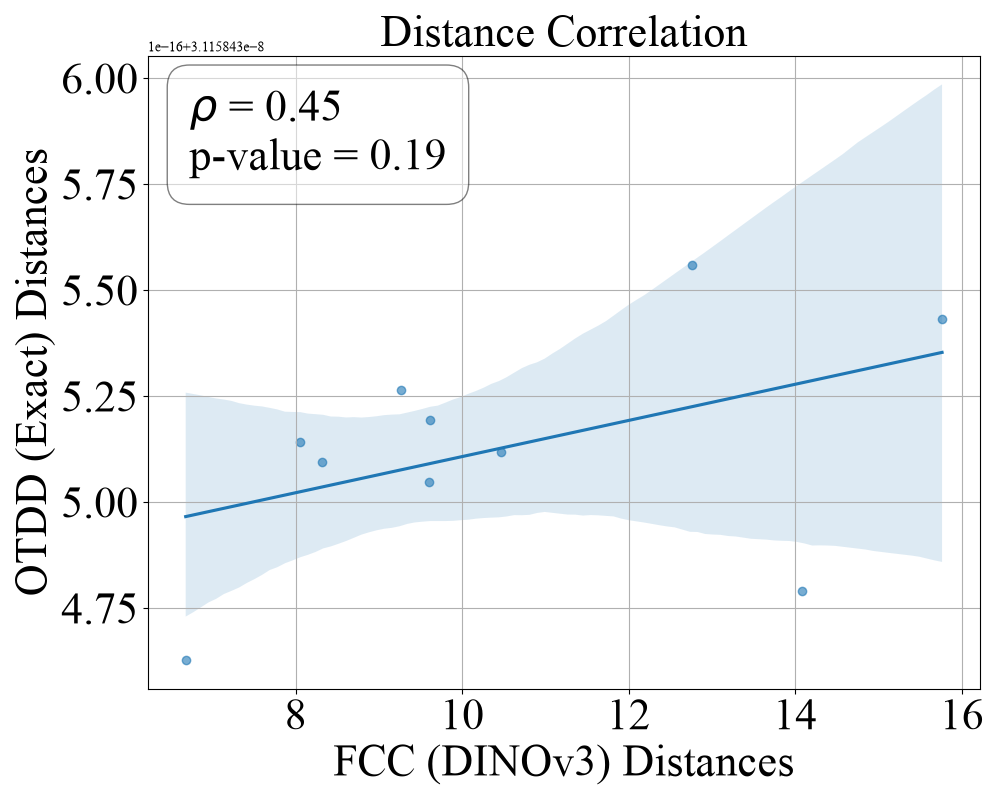
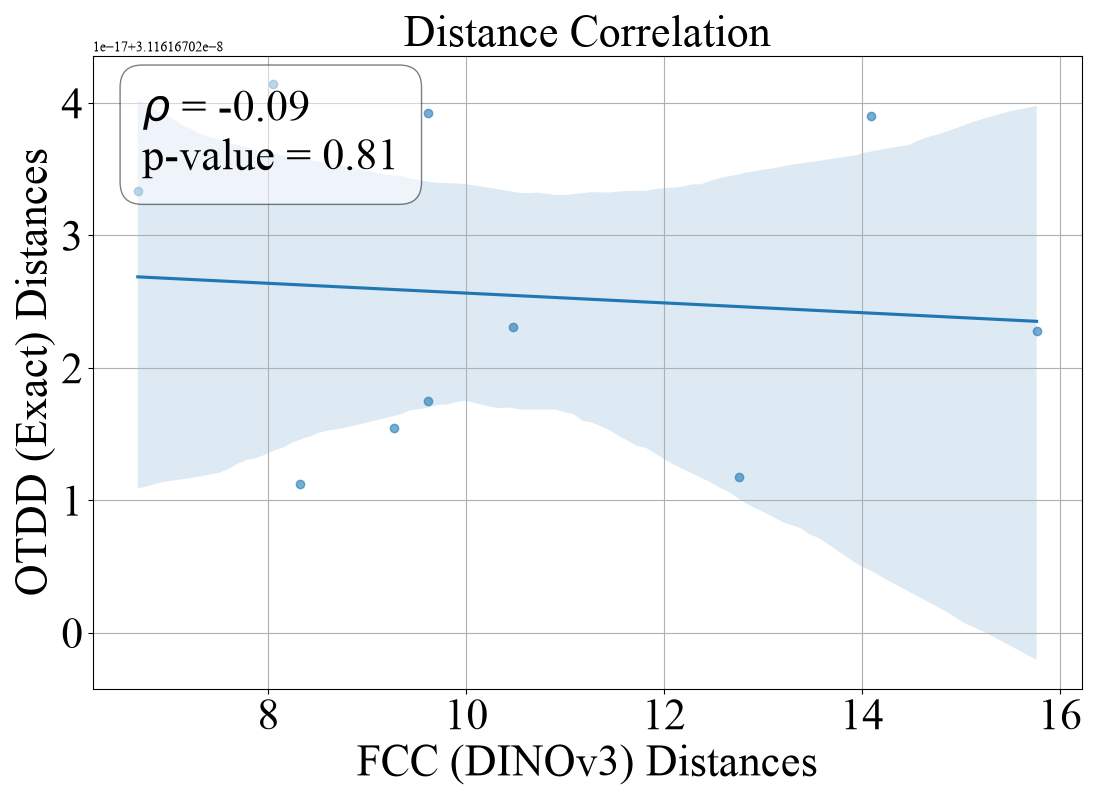
plots updated and correlation experiments

diff --git a/fid_experiment.py b/fid_experiment.py
@@ -74,6 +74,7 @@ def c100_c10_otdd_distance(trainset, trainset100, features_cifar10, features_cif
         selected_labels_cifar10 = cifar_labels[cifar_labels == class_index]
         otdd_score_subset = util.exact_otdd(features_cifar100, torch.tensor(trainset100.targets), selected_features_cifar10, selected_labels_cifar10)
         otdds.append(otdd_score_subset)
+        print(f"target={class_name}, otdd_exact_score={otdd_score_subset}")
     end_time = time.time()
     elapsed_time = end_time - start_time
     runtimes[cache_key] = elapsed_time
@@ -131,10 +132,11 @@ def main():
     dino_features_cifar10, dino_features_cifar100, _ = data.load_dinov3()
     trainset, trainset100 = data.load_cifar_pytorch_datasets()
 
-    c100_c10_inception_distance(trainset, trainset100, features_cifar10, features_cifar100, runtimes, distances_cache)
-    c100_c10_dinov3_distance(trainset, trainset100, dino_features_cifar10, dino_features_cifar100, runtimes, distances_cache)
+    # distances_cache.pop('OTDD (Exact) C100->C10')
+    # c100_c10_inception_distance(trainset, trainset100, features_cifar10, features_cifar100, runtimes, distances_cache)
+    # c100_c10_dinov3_distance(trainset, trainset100, dino_features_cifar10, dino_features_cifar100, runtimes, distances_cache)
     c100_c10_otdd_distance(trainset, trainset100, features_cifar10, features_cifar100, runtimes, distances_cache)
-    c100_c10_sotdd_distance(trainset, trainset100, features_cifar10, features_cifar100, runtimes, distances_cache)
+    # c100_c10_sotdd_distance(trainset, trainset100, features_cifar10, features_cifar100, runtimes, distances_cache)
 
     save_distances_cache(distances_cache)
     with open('runtimes.json', 'w') as f:

diff --git a/plots.py b/plots.py
@@ -2,7 +2,7 @@ import json
 import matplotlib.pyplot as plt
 import numpy as np
 import seaborn as sns
-from scipy.stats import pearsonr
+from scipy.stats import pearsonr, spearmanr
 
 def plot_runtimes():
     """
@@ -69,6 +69,7 @@ def plot_inception_correlation():
 
     # Calculate correlation and p-value
     rho, p_value = pearsonr(fcc_inception, otdd_exact)
+    # rho,p_value = spearmanr(fcc_inception, otdd_exact)
     ax.text(0.05, 0.95, f'$\\rho$ = {rho:.2f}\np-value = {p_value:.2f}',
             transform=ax.transAxes, fontsize=32,
             verticalalignment='top', bbox=dict(boxstyle='round,pad=0.5', fc='white', alpha=0.5))
@@ -101,12 +102,13 @@ def plot_dino_correlation():
     plt.rcParams['font.family'] = 'serif'
     plt.rcParams['font.serif'] = ['Times New Roman'] + plt.rcParams['font.serif']
 
-    fig, ax = plt.subplots(figsize=(10, 8))
+    fig, ax = plt.subplots(figsize=(11, 8))
 
     sns.regplot(x=fcc_dino, y=otdd_exact, ax=ax, scatter_kws={'alpha':0.6})
 
     # Calculate correlation and p-value
     rho, p_value = pearsonr(fcc_dino, otdd_exact)
+    # rho, p_value = spearmanr(fcc_dino, otdd_exact)
     ax.text(0.05, 0.95, f'$\\rho$ = {rho:.2f}\np-value = {p_value:.2f}',
             transform=ax.transAxes, fontsize=32,
             verticalalignment='top', bbox=dict(boxstyle='round,pad=0.5', fc='white', alpha=0.5))

diff --git a/util.py b/util.py
@@ -60,7 +60,7 @@ def _label_distance_matrix(labels1, labels2):
     return (labels1.unsqueeze(1) != labels2.unsqueeze(0)).float()
 
 
-def exact_otdd(X1, y1, X2, y2, class_dist_scale=1.0, reg=0.1):
+def exact_otdd(X1, y1, X2, y2, class_dist_scale=1.0, reg=0.001):
     """
     Computes the exact Optimal Transport Dataset Distance (OTDD).
 
